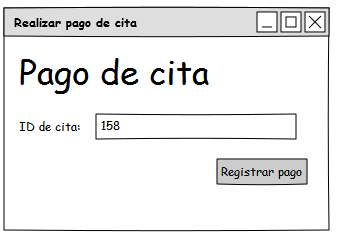
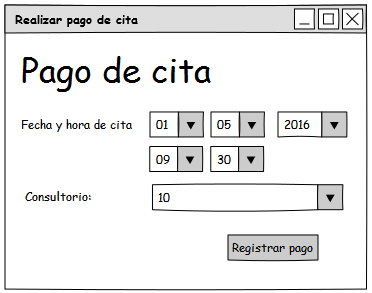
lal

diff --git a/documento_analisis/ModeloComportamiento/RealizarPagoCita/RealizarPagoCita.tex b/documento_analisis/ModeloComportamiento/RealizarPagoCita/RealizarPagoCita.tex
@@ -15,31 +15,18 @@
     \UCitem{Propósito}{Que el paciente pueda ingresar a su cita.}
     \UCitem{Entradas}{
         \begin{itemize}
-        	\item ID de la cita: Número entero positivo [Requerido]
-        	\item Fecha de pago: Fecha con formato yyyy/mm/dd [Requerido]
-        	\item Hora de pago: Hora con formato hh:mm, 24 horas [Requerido]
+        	\item Fecha de la cita: Fecha en fomato dd/mm/yyyy [Requerido]
+        	\item Hora de cita: hora en formato hh:mm [Requerido]
+        	\item Número de consultorio: Número positivo entre 0 y 12 [Requerido]
         \end{itemize} 
     }
     \UCitem{Origen}{
         \begin{itemize}
-            \item Desde teclado: ID de cita.
-            \item Desde sistema: Fecha y hora de pago.
+            \item Todos los datos son ingresados mediante selectoress.
         \end{itemize}
     }
     \UCitem{Salidas}{
         \begin{itemize}
-	        \item Comprobante de pago: Archivo PDF que contiene:
-	        \begin{itemize}
-	        	\item Información de cita:
-	        	\begin{itemize}
-	        		\item Fecha de cita: Fecha en formato dd/mm/yyyy
-	        		\item Hora de cita: Hora con formato hh:mm
-	        		\item Consultorio de cita: Número entero entre 1 y 12
-	        	\end{itemize}
-	        	\item Monto del pago realizado: número flotante con dos decimales
-	        	\item Fecha de pago: Fecha con formato yyyy/mm/dd
-	        	\item Hora de pago: Hora con formato hh:mm
-	        \end{itemize}
 	        \item Mensaje de confirmación: Cadena ''Pago registrado correctamente''
 	        \item Información de cita:
 	        \begin{itemize}
@@ -52,7 +39,6 @@
     \UCitem{Destino}{
 	    \begin{itemize}
 	    	\item Pantalla: Mensaje de confirmación e información de la cita
-	    	\item Correo electrónico de paciente: Comprobante de pago
 	    \end{itemize}
     }
    	\UCitem{Precondiciones}{
@@ -96,7 +82,7 @@
 		\UCpaso Verifica que la cita no tenga el estado de ``pagada'' [TA3]
 		\UCpaso Modifica el estado de la cita a ``pagada''
 		\UCpaso Obtiene al paciente que agendó la cita 
-		\UCpaso Confirma operación mostrando mensaje de confirmación, datos de cita y enviándo archivo PDF del comprobante  al correo electrónico del paciente
+		\UCpaso Confirma operación mostrando mensaje de confirmación, y los datos de cita
 \end{UCtrayectoria}
 
 \begin{UCtrayectoriaA}{TA1}{Cita no existe}

diff --git a/documento_analisis/ModeloInteraccion/Pacheco/IU.tex b/documento_analisis/ModeloInteraccion/Pacheco/IU.tex
@@ -25,8 +25,10 @@ Esta pantalla aparece al hacer click sobre \IUbutton{Realizar pago de cita} al h
 \end{itemize}
 \subsubsection{Entradas}
 \begin{itemize}
-	\item ID de la cita: entero positivo
-\end{itemize}
+	\item Fecha de la cita: Fecha en fomato dd/mm/yyyy [Requerido]
+	\item Hora de cita: hora en formato hh:mm [Requerido]
+	\item Número de consultorio: Número positivo entre 0 y 12 [Requerido]
+\end{itemize} 
 
 \subsubsection{Comandos}
 \begin{itemize}

diff --git a/src/AppBundle/Controller/Cajero/CajeroController.php b/src/AppBundle/Controller/Cajero/CajeroController.php
@@ -69,6 +69,7 @@ class CajeroController extends Controller
         $formPagoCita->handleRequest($request);
 
         if($formPagoCita->isValid()){
+            date_default_timezone_set ('America/Mexico_City');
             $date = $cita->getFecha()->format('Y-m-d');
             $h = $cita->getFecha()->format('h') * 60 * 60;
             $m = $cita->getFecha()->format('i') * 60;
